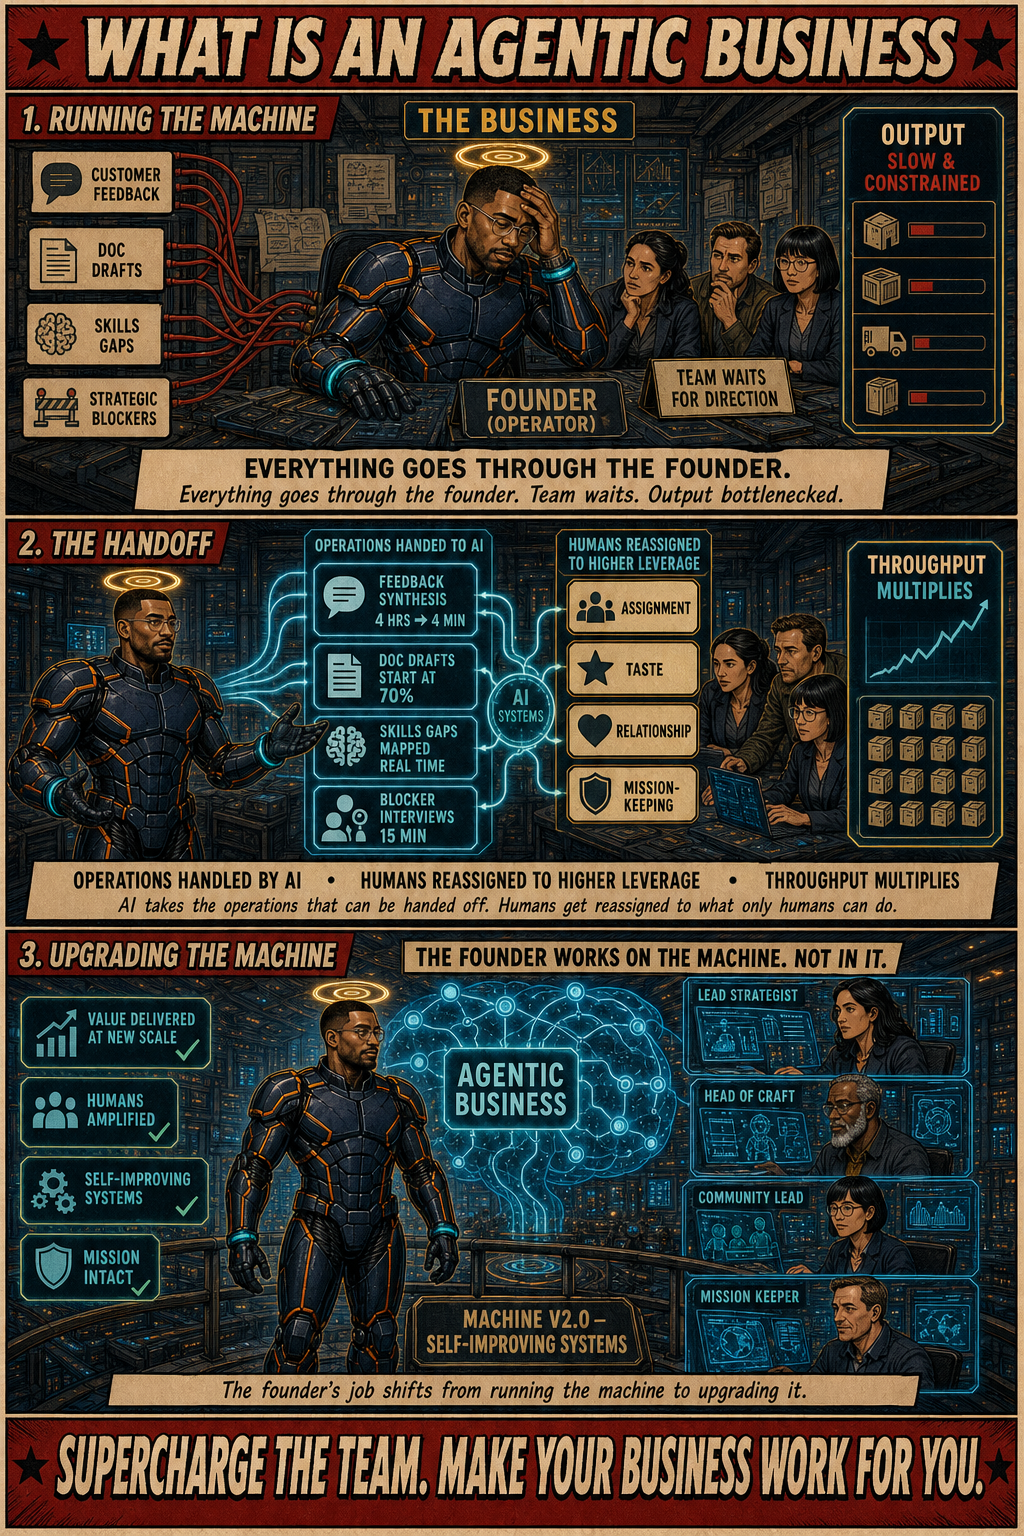
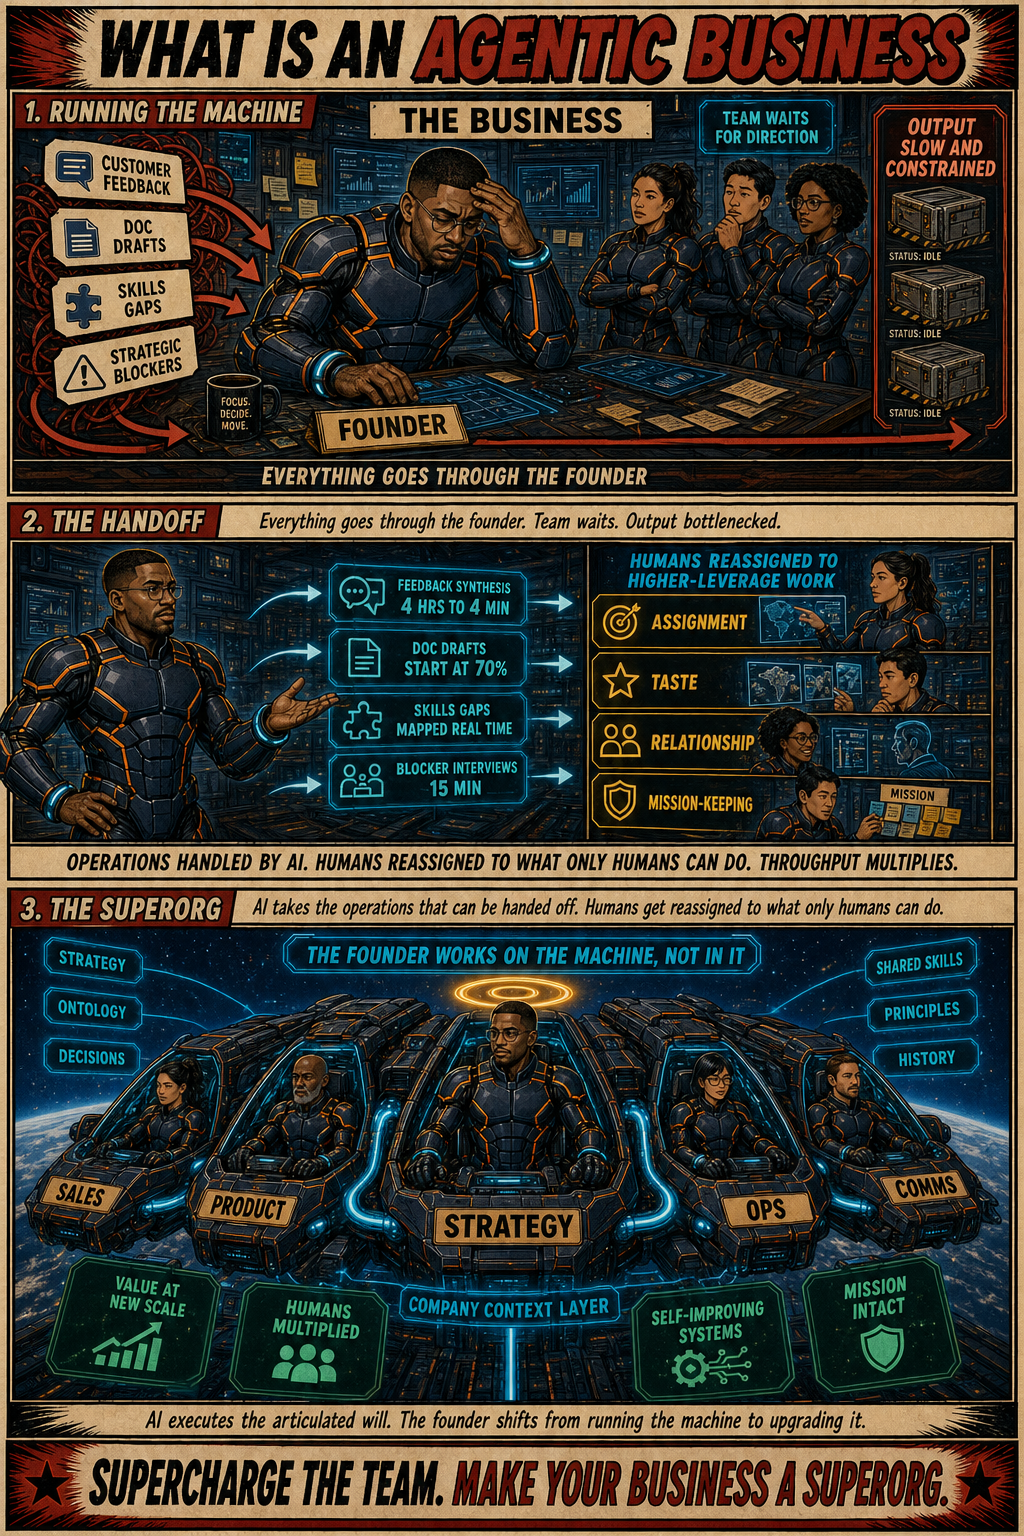
comic: what-is-an-agentic-business with Superorg destination panel 3

diff --git a/docs/start-here/what-is-an-agentic-business.md b/docs/start-here/what-is-an-agentic-business.md
@@ -9,7 +9,7 @@ description: "A business that runs on applied AI. The founder sets direction, AI
 
 *A business that runs on applied AI. The founder sets direction, AI handles the operations that can be handed off, and the humans do the work that only humans can do.*
 
-![Three-panel comic. The founder across all three panels is the canonical Blasian supersuited operator (full cybertronic exo-suit, matte-navy plating with vivid orange seam accents, clean chest with no glowing core piece, cyan glow at wrist cuffs, single unified gold spiral halo above his head). 1. RUNNING THE MACHINE: the operator seated at a cluttered control panel inside the business, hand on his forehead, frustrated; backlog items pile up on the left (CUSTOMER FEEDBACK, DOC DRAFTS, SKILLS GAPS, STRATEGIC BLOCKERS) all funneling to him as the single operator; banner above reads THE BUSINESS, sign below reads FOUNDER (OPERATOR); team waiting on the right captioned TEAM WAITS FOR DIRECTION; output panel on far right reads OUTPUT SLOW & CONSTRAINED with idle cargo icons; floor line reads EVERYTHING GOES THROUGH THE FOUNDER. Caption: 'Everything goes through the founder. Team waits. Output bottlenecked.' 2. THE HANDOFF: same operator standing back gesturing, handing operational items off to AI process icons; latency-based stats stack center-frame (FEEDBACK SYNTHESIS 4 HRS → 4 MIN, DOC DRAFTS START AT 70%, SKILLS GAPS MAPPED REAL TIME, BLOCKER INTERVIEWS 15 MIN); humans on the right reassigned to higher-leverage work with icons (ASSIGNMENT, TASTE, RELATIONSHIP, MISSION-KEEPING); caption row reads OPERATIONS HANDLED BY AI · HUMANS REASSIGNED TO HIGHER LEVERAGE · THROUGHPUT MULTIPLIES. Caption: 'AI takes the operations that can be handed off. Humans get reassigned to what only humans can do.' 3. UPGRADING THE MACHINE: wide third-person establishing shot — the same operator stands at the helm of the agentic business, no longer inside the machine but in front of it; labeled glowing organism above reads AGENTIC BUSINESS with cyan flow-nodes; placard at his feet reads MACHINE V2.0 — SELF-IMPROVING SYSTEMS; outcome cards float in the air (VALUE DELIVERED AT NEW SCALE ✓, HUMANS AMPLIFIED ✓, SELF-IMPROVING SYSTEMS ✓, MISSION INTACT ✓); named distinct team members at workstations behind him (LEAD STRATEGIST — Latina woman with long dark hair; HEAD OF CRAFT — older Black man with grey beard; COMMUNITY LEAD — young East Asian woman with short bob and glasses; MISSION KEEPER — white European man with neat short hair) each glowing cyan-amplified; banner reads THE FOUNDER WORKS ON THE MACHINE. NOT IN IT. Caption: 'The founder\'s job shifts from running the machine to upgrading it.' Title bar: WHAT IS AN AGENTIC BUSINESS. Footer bar: SUPERCHARGE THE TEAM. MAKE YOUR BUSINESS WORK FOR YOU.](/img/comics/what-is-an-agentic-business.png)
+![Three-panel comic. The founder across all three panels is the canonical Blasian hyperagent (full cybertronic exo-suit, matte-navy plating with vivid orange seam accents, clean chest, cyan glow at wrist cuffs, single unified gold spiral halo above his head in the activated state). 1. RUNNING THE MACHINE: the hyperagent (helmet off, no halo) seated at a cluttered control panel inside the business, hand on his forehead, frustrated; backlog items pile up on the left (CUSTOMER FEEDBACK, DOC DRAFTS, SKILLS GAPS, STRATEGIC BLOCKERS) all funneling to him; banner above reads THE BUSINESS, sign below reads FOUNDER; team waiting on the right captioned TEAM WAITS FOR DIRECTION; output panel on far right reads OUTPUT SLOW AND CONSTRAINED with idle cargo icons; floor line reads EVERYTHING GOES THROUGH THE FOUNDER. Caption: 'Everything goes through the founder. Team waits. Output bottlenecked.' 2. THE HANDOFF: same hyperagent standing back gesturing, handing operational items off to AI process icons; latency stats stack center-frame (FEEDBACK SYNTHESIS 4 HRS TO 4 MIN, DOC DRAFTS START AT 70%, SKILLS GAPS MAPPED REAL TIME, BLOCKER INTERVIEWS 15 MIN); humans on the right reassigned to higher-leverage work with icons (ASSIGNMENT, TASTE, RELATIONSHIP, MISSION-KEEPING); caption row reads OPERATIONS HANDLED BY AI. HUMANS REASSIGNED TO WHAT ONLY HUMANS CAN DO. THROUGHPUT MULTIPLIES. Caption: 'AI takes the operations that can be handed off. Humans get reassigned to what only humans can do.' 3. THE SUPERORG: wide third-person establishing shot. The same hyperagent at the helm in the center, fully suited with the gold spiral halo. Around him five supersuited function leaders, each piloting a function-craft module that has docked into one composite vessel behind the founder. Function placards on the docked modules: SALES (Latina woman, late 20s, long dark hair), PRODUCT (older Black man, early 50s, bald with grey beard), STRATEGY (the founder), OPS (young East Asian woman, mid-20s, short bob and glasses), COMMS (white European man, late 30s, neat hair). A glowing cyan power conduit (the COMPANY CONTEXT LAYER) runs through every docked module. Floating data tabs orbit the vessel: STRATEGY, ONTOLOGY, DECISIONS, SHARED SKILLS, PRINCIPLES, HISTORY. Outcome cards float in the air: VALUE AT NEW SCALE, HUMANS MULTIPLIED, SELF-IMPROVING SYSTEMS, MISSION INTACT. Banner reads THE FOUNDER WORKS ON THE MACHINE, NOT IN IT. Caption: 'AI executes the articulated will. The founder shifts from running the machine to upgrading it.' Title bar: WHAT IS AN AGENTIC BUSINESS. Footer bar: SUPERCHARGE THE TEAM. MAKE YOUR BUSINESS A SUPERORG.](/img/comics/what-is-an-agentic-business.png)
 
 ---
 